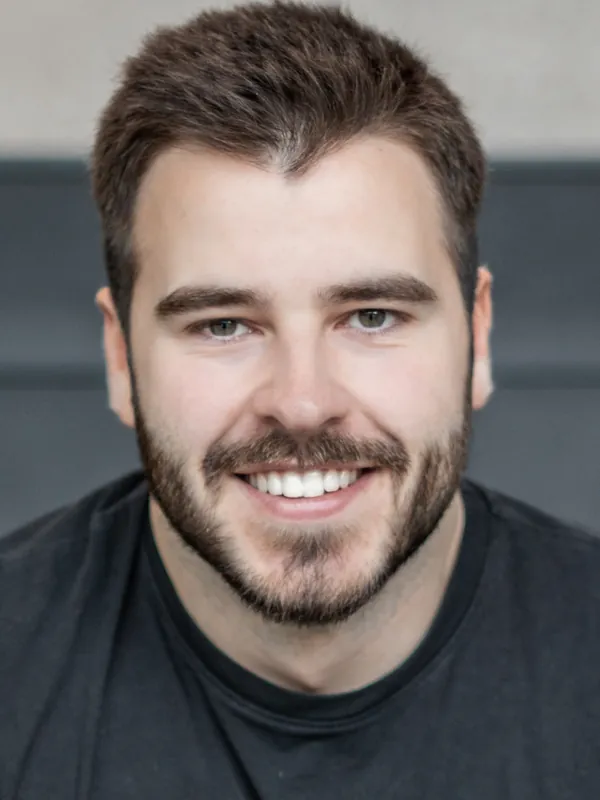
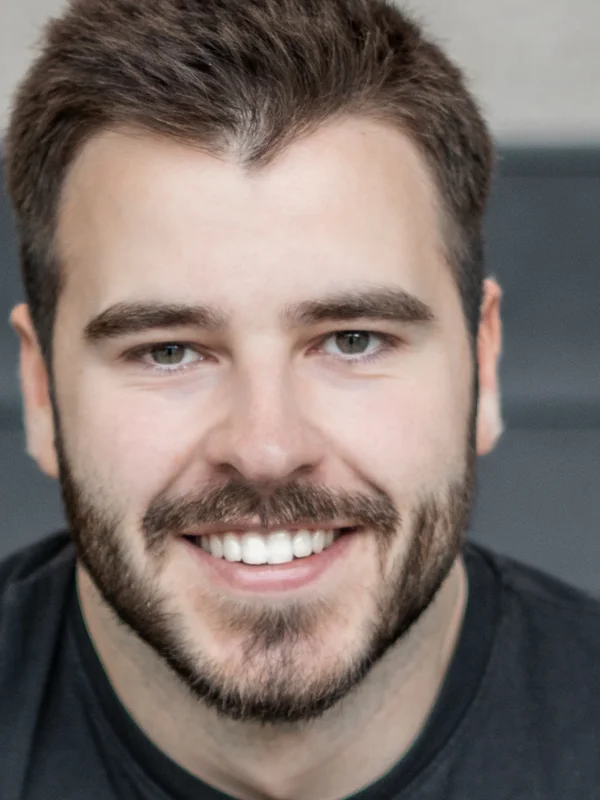
Hero portrait: looser crop, smaller on mobile
- Re-cropped public/portrait.webp from the source (4000x6000) — now
  head + shoulders + clavicle (box 1268,200 → 2993,2500), no longer
  a tight face zoom. Still avoids the t-shirt logo. Output 600x800,
  ~37 KB at q=85.
- Mobile max-width dropped 320 → 200 px so the portrait stops
  dominating the hero on phones. Desktop right-column 380 px max
  unchanged.

OG image (1200x630) and apple-touch-icon still use the old tight
crop — happy to regenerate those too if you want consistency.

diff --git a/src/sections/Hero/Hero.scss b/src/sections/Hero/Hero.scss
@@ -139,10 +139,10 @@
   }
 }
 
-// Portrait — right column on desktop, below CTAs on mobile
+// Portrait — right column on desktop, modest size below CTAs on mobile
 .hero-photo {
   width: 100%;
-  max-width: 320px;
+  max-width: 200px;
   margin: 0 auto;
 
   img {